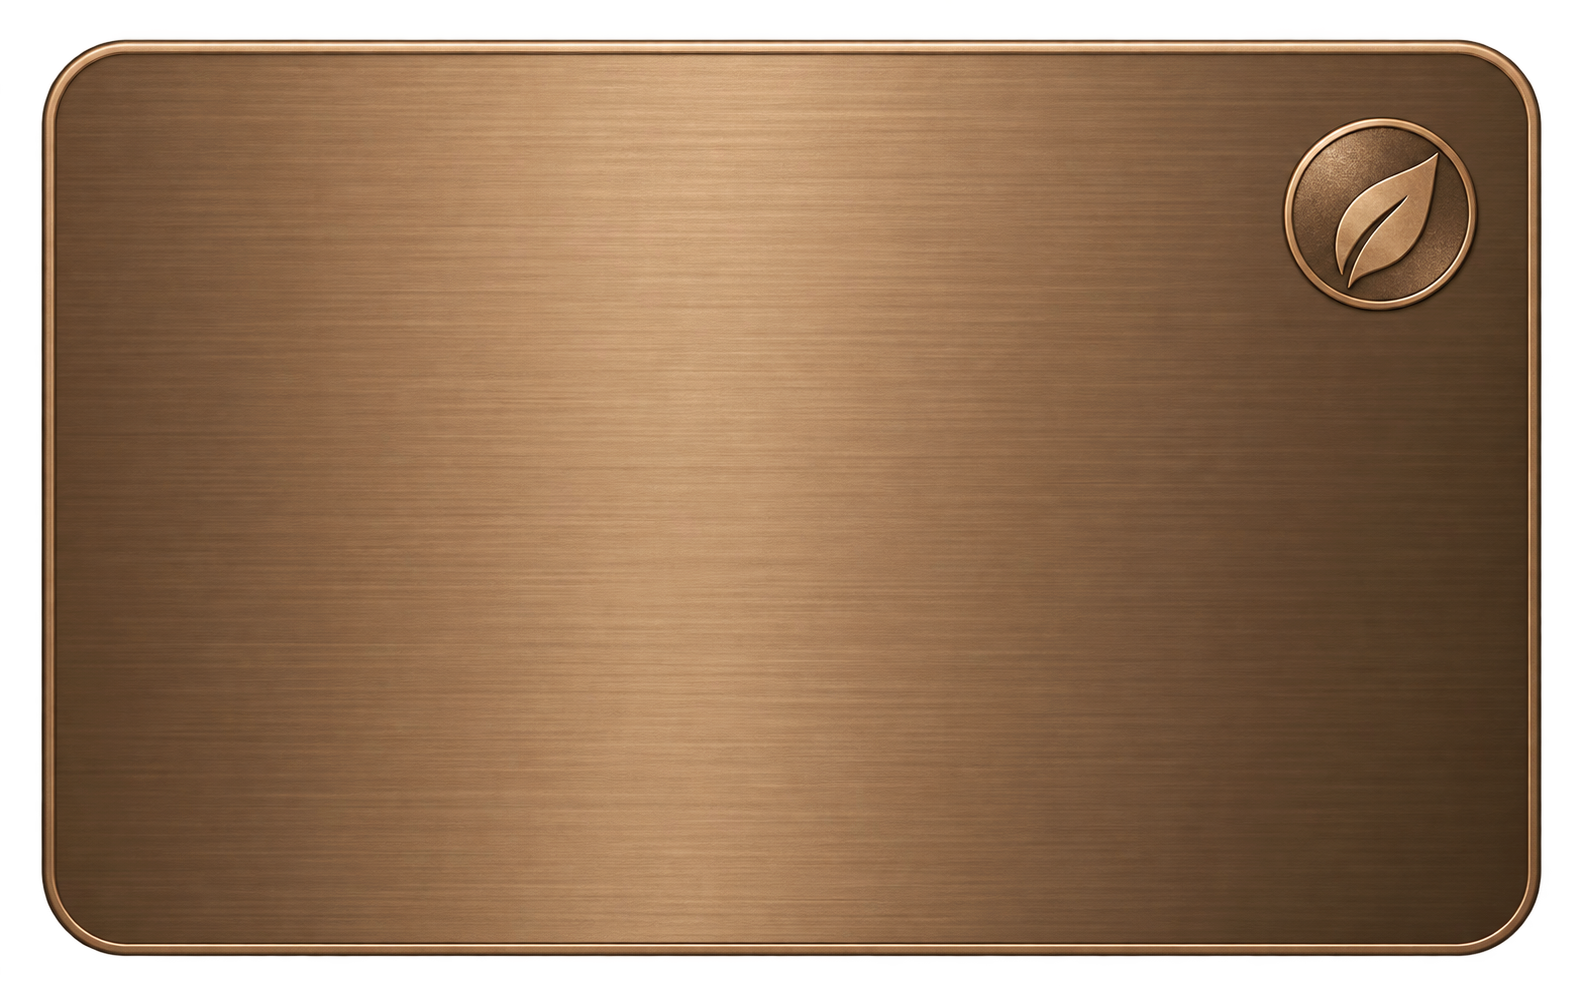
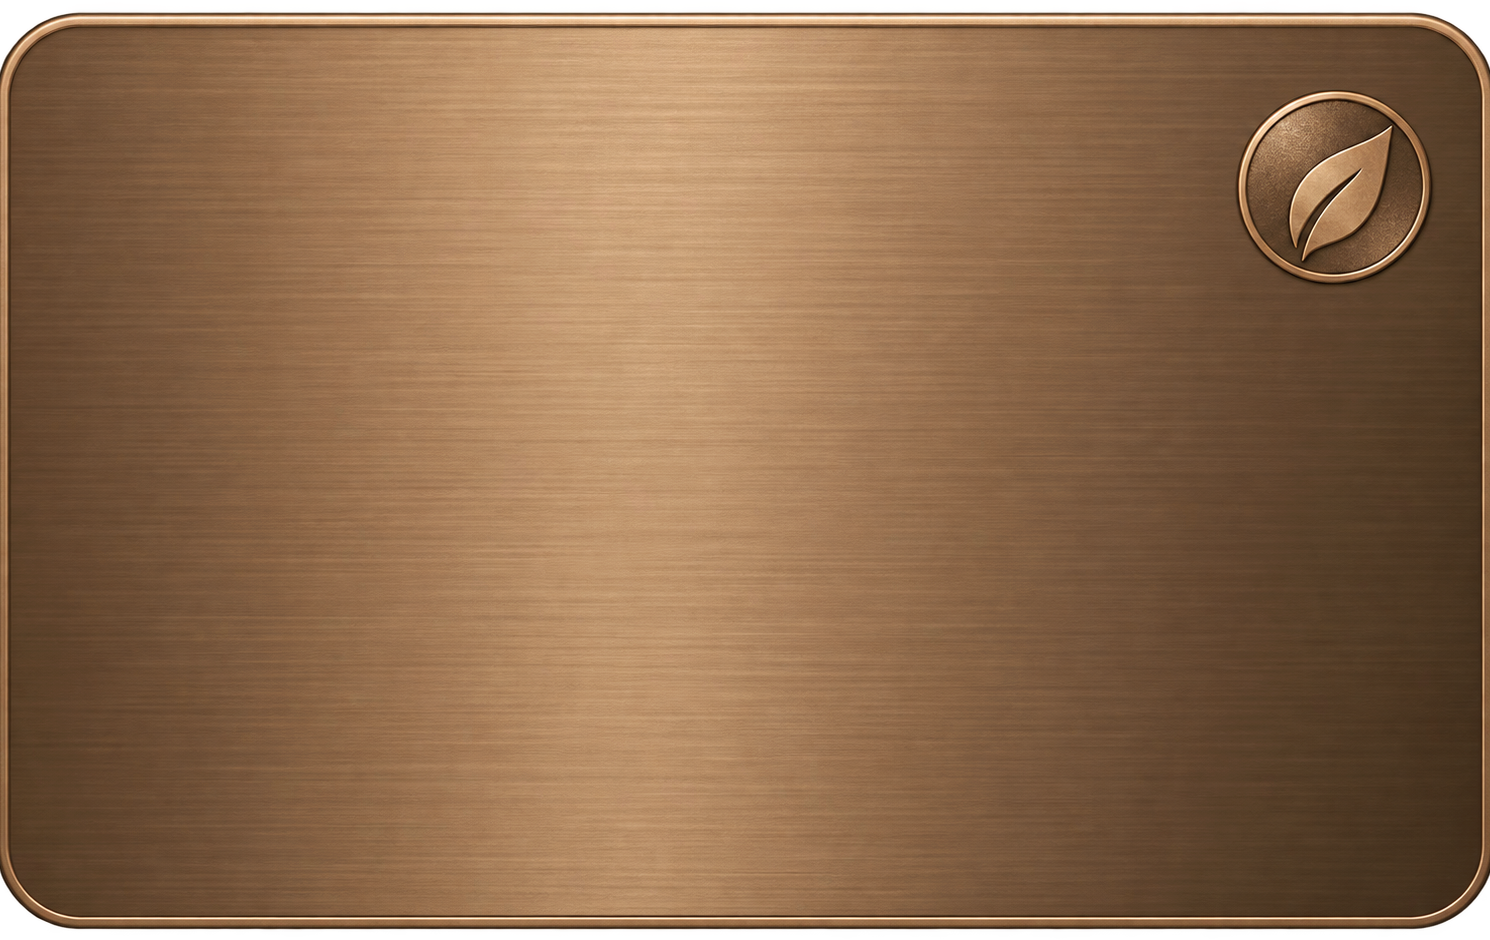
fix(wallet): carte Fife Life pleine taille et lisibilité du palier Diamant
Les visuels de palier (argent/bronze/or/diamant) avaient une marge
transparente qui faisait paraitre la carte principale plus petite que
les cartes commercants dans le deck. Recadrage au ratio de la carte
pour un rendu bord a bord sans rognage sur les cotes.

Ajuste aussi les espacements mobiles (carte -> QR -> prochaine
recompense -> bouton) qui etaient trop serres, et fonce le texte du
palier Diamant (nom/numero/points illisibles en blanc sur fond clair).

Changed region(s): [[0.0, 0.0, 1.0, 1.0]]

diff --git a/src/app/globals.css b/src/app/globals.css
@@ -222,16 +222,21 @@ body:has(.wallet-shell) {
   }
 
   .wallet-deck-block {
-    margin-top: clamp(20px, 5vw, 24px) !important;
+    margin-top: clamp(48px, 11vw, 64px) !important;
   }
 
   .wallet-primary-actions {
-    margin-top: clamp(20px, 5vw, 24px);
+    margin-top: clamp(28px, 7vw, 36px);
     margin-bottom: clamp(18px, 4vw, 24px);
   }
 
   .wallet-reward-block {
-    margin-top: 0 !important;
+    margin-top: clamp(48px, 12vw, 72px) !important;
+  }
+
+  .wallet-sheet-trigger {
+    margin-top: clamp(36px, 9vw, 56px) !important;
+    padding-bottom: clamp(32px, 8vw, 56px);
   }
 }
 
@@ -834,11 +839,12 @@ body:has(.wallet-shell) {
 
 .loyalty-card[data-tier="diamant"] {
   --background: url("/cards/diamant-good.png");
-  --ink: #f4f8ff;
-  --bar-light: #ffffff;
-  --bar-mid: #b7e6ff;
-  --bar-dark: #4ba2db;
-  --track: #263b50;
+  --ink: #16273f;
+  --bar-light: #eaf6ff;
+  --bar-mid: #7fc4ea;
+  --bar-dark: #245a82;
+  --track: #d7ecfb;
+  text-shadow: 0 0.09cqw 0.16cqw #ffffffb3, 0 0.02cqw 0.05cqw #0000004d;
 }
 
 .loyalty-card__heading {
